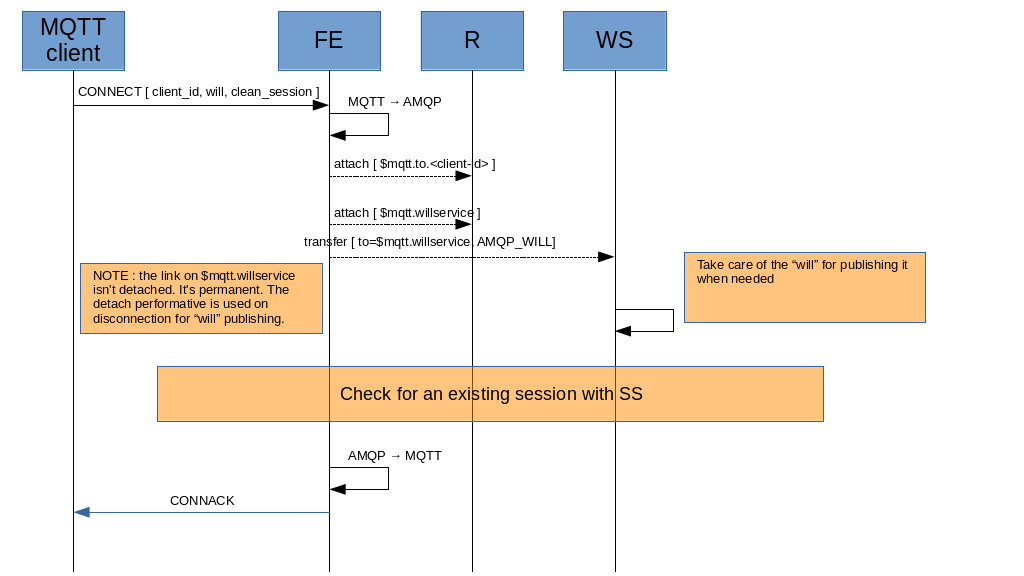
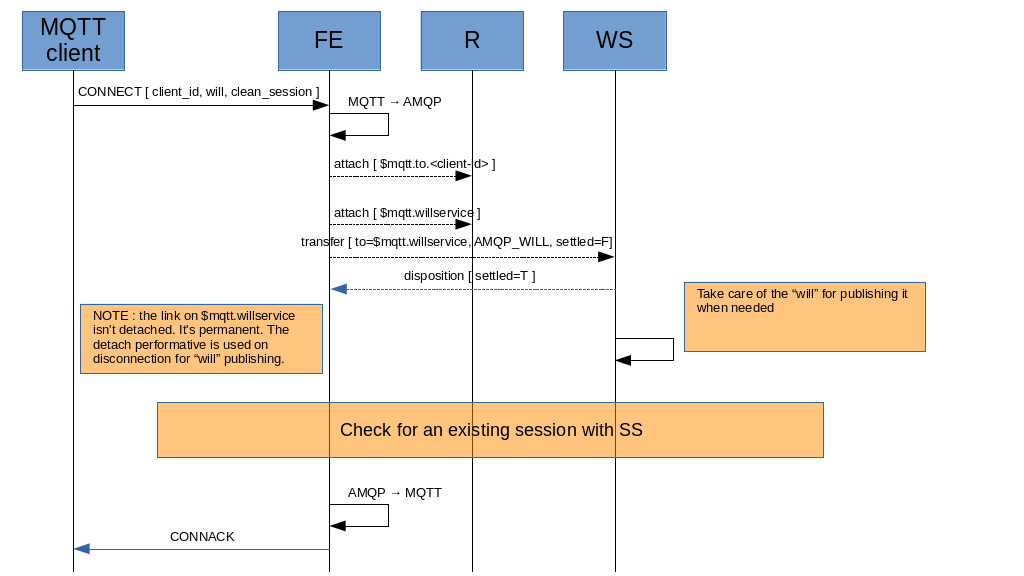
Added information about will, clean session, session present, will clear, subscribe and unsubscribe messages are sent "unsettled" (waiting for disposition) Modified related images for the above additions

diff --git a/mqtt-over-amqp/docs/operations_connection.md b/mqtt-over-amqp/docs/operations_connection.md
@@ -15,6 +15,7 @@ The MQTT client sends a _CONNECT_ message to the FE which maps the message to th
 
 > the MQTT QoS level is mapped to the AMQP couple snd-settle-mode and rcv-settle-mode (see "“Publishing”").
 
+The _AMQP_WILL_ is sent as "unsettled", in order to know that the Will Service has received it (with related disposition).
 The relation between the _AMQP_WILL_ message and the related client, at AMQP level, is inferred by the link name attached to the WS control address.
 
 **AMQP_SESSION** : sent to the SS in order to provide “clean-session” information and querying for a previous session.
@@ -25,6 +26,7 @@ The relation between the _AMQP_WILL_ message and the related client, at AMQP lev
 | x-clean-session | message annotation | clean session flag | MQTT CONNECT |
 | reply-to | system property | $mqtt.to.[client-id] | - |
 
+The _AMQP_SESSION_ is sent as "unsettled", in order to know that the Subscription Service has received it (with related disposition).
 The relation between the _AMQP_SESSION_ message and the related client, at AMQP level, is inferred by the link name attached to the SS control address.
 
 > the [client-id] is the "client identifier" value from the MQTT CONNECT message.
@@ -41,6 +43,8 @@ After sending the _AMQP_SESSION_, the FE receives the following message as reply
 ![Connect Will Service](../images/03_connect_ws.png)
 
 ![Connect Subscription Service](../images/04_connect_ss.png)
+
+The _AMQP_SESSION_PRESENT_ is sent as "unsettled", in order to know that the FE has received it (with related disposition).
 
 If a session is present and there are subscriptions for the client-id, the SS re-establishes the routes from each topic to the $mqtt.to.[client-id] automatically (see “Subscription/Unsubscription”). No need for the SS to send subscriptions list to the FE in order to re-subscribe.
 

diff --git a/mqtt-over-amqp/docs/operations_subscription_unsubscription.md b/mqtt-over-amqp/docs/operations_subscription_unsubscription.md
@@ -24,6 +24,7 @@ The FE maps the _SUBSCRIBE_ message to the following AMQP message.
 
 > "topics" is just a list of topic names; "desired-settle-modes" is a list of couples with sender and receiver settle mode
 
+The _AMQP_SUBSCRIBE_ is sent as "unsettled", in order to know that the Subscription Service has received it (with related disposition).
 After sending the _AMQP_SUBSCRIBE_, the FE should receive the following messages as reply.
 
 **AMQP_SUBACK** : the result of a subscription request.
@@ -70,6 +71,7 @@ The MQTT client sends an _UNSUBSCRIBE_ message to FE which maps to the following
 | reply-to | system property | $mqtt.to.[client-id] | - |
 | payload | AMQP value | List of topics | MQTT UNSUBSCRIBE |
 
+The _AMQP_UNSUBSCRIBE_ is sent as "unsettled", in order to know that the Subscription Service has received it (with related disposition).
 After sending the _AMQP_UNSUBSCRIBE_, the FE receives the following messages as reply.
 
 **AMQP_UNSUBACK** : the result of an unsubscription request.

diff --git a/mqtt-over-amqp/docs/operations_disconnection.md b/mqtt-over-amqp/docs/operations_disconnection.md
@@ -8,6 +8,7 @@ The FE detects a disconnection from the MQTT client (brute or clean through _DIS
 | ---- | ---- | ----- | ---- |
 | subject | system property | "will-clear" | - |
 
+The _AMQP_WILL_CLEAR_ is sent as "unsettled", in order to know that the Will Service has received it (with related disposition).
 The relation between the _AMQP_WILL_CLEAR_ message and the related client, at AMQP level, is inferred by the link name attached to the WS control address.
 
 Regarding the “will” publishing on disconnection, the two following scenarios are possible :
